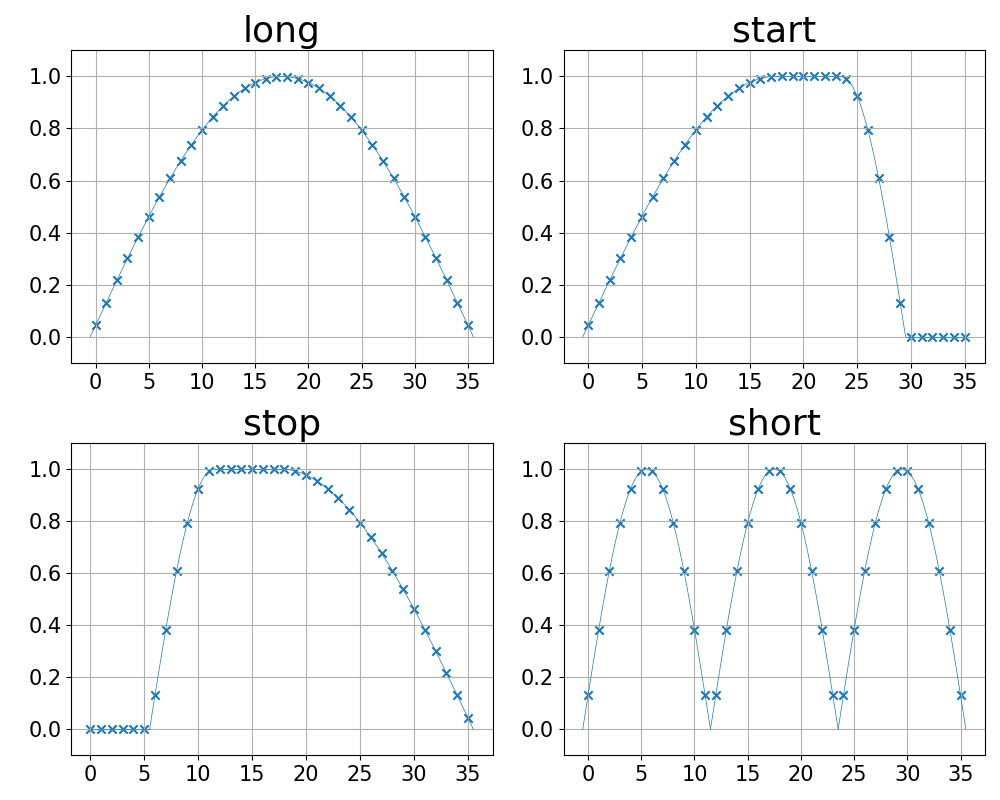
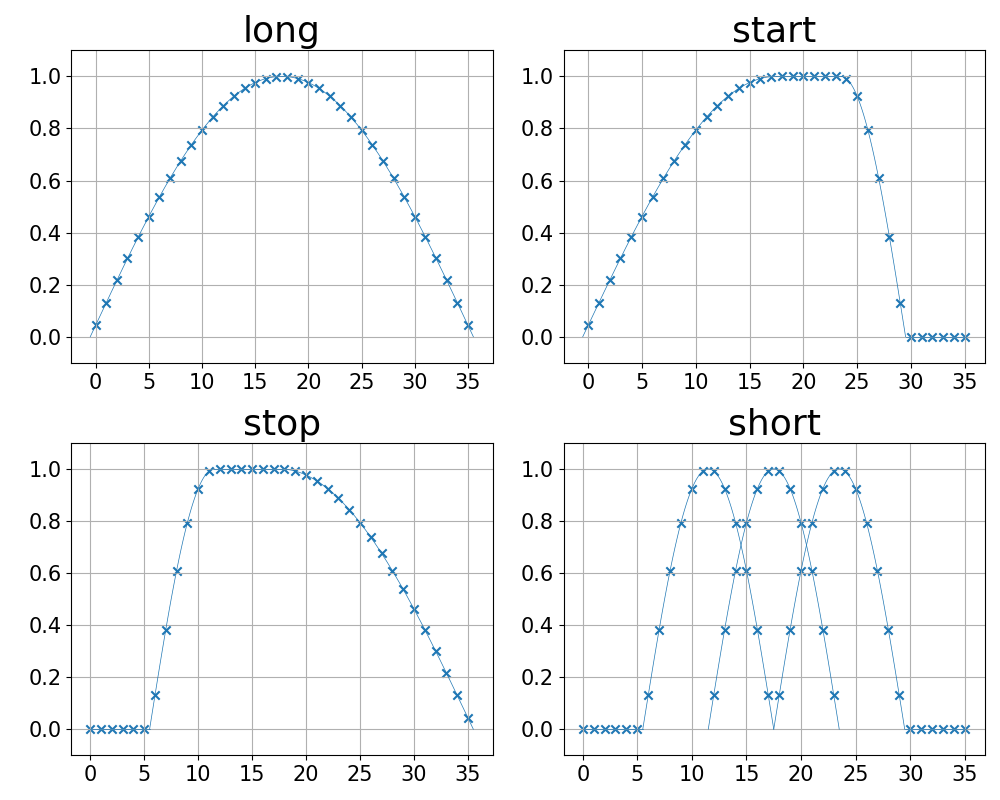
fix short window.

diff --git a/documents/slide/figs/mp3_routines.py b/documents/slide/figs/mp3_routines.py
@@ -597,18 +597,26 @@ def plot_window_functions():
     ax.grid()
     ax = fig.add_subplot(2, 2, 4)
     ax.set_title('short', fontsize=26)
-    x = np.arange(0, 12)
-    ax.scatter(x, np.sin(np.pi / 12 * (x + 1/2)), color=COLOR, marker='x')
-    x = np.arange(-0.5, 11.6, 0.1)
-    ax.plot(x, np.sin(np.pi / 12 * (x + 1/2)), color=COLOR, linewidth=0.5)
+    x = np.arange(0, 6)
+    ax.scatter(x, np.zeros_like(x), color=COLOR, marker='x')
+    x = np.arange(0, 5.6, 0.1)
+    ax.plot(x, np.zeros_like(x), color=COLOR, linewidth=0.5)
+    x = np.arange(6, 18)
+    ax.scatter(x, np.sin(np.pi / 12 * (x - 6 + 1/2)), color=COLOR, marker='x')
+    x = np.arange(5.5, 17.59, 0.1)
+    ax.plot(x, np.sin(np.pi / 12 * (x - 6 + 1/2)), color=COLOR, linewidth=0.5)
     x = np.arange(12, 24)
     ax.scatter(x, np.sin(np.pi / 12 * (x - 12 + 1/2)), color=COLOR, marker='x')
     x = np.arange(11.5, 23.59, 0.1)
     ax.plot(x, np.sin(np.pi / 12 * (x - 12 + 1/2)), color=COLOR, linewidth=0.5)
-    x = np.arange(24, 36)
-    ax.scatter(x, np.sin(np.pi / 12 * (x - 24 + 1/2)), color=COLOR, marker='x')
-    x = np.arange(23.5, 35.59, 0.1)
-    ax.plot(x, np.sin(np.pi / 12 * (x - 24 + 1/2)), color=COLOR, linewidth=0.5)
+    x = np.arange(18, 30)
+    ax.scatter(x, np.sin(np.pi / 12 * (x - 18 + 1/2)), color=COLOR, marker='x')
+    x = np.arange(17.5, 29.59, 0.1)
+    ax.plot(x, np.sin(np.pi / 12 * (x - 18 + 1/2)), color=COLOR, linewidth=0.5)
+    x = np.arange(30, 36)
+    ax.scatter(x, np.zeros_like(x), color=COLOR, marker='x')
+    x = np.arange(29.5, 35.1, 0.1)
+    ax.plot(x, np.zeros_like(x), color=COLOR, linewidth=0.5)
     ax.set_ylim(-0.1, 1.1)
     ax.set_xticks(np.arange(0, 36, 5))
     ax.tick_params(labelsize=15)

diff --git a/documents/slide/mp3slide.tex b/documents/slide/mp3slide.tex
@@ -388,7 +388,7 @@
             種類 & 定義 \\ 
             \midrule
              long & $\displaystyle w[n] = \sin\left[ \frac{\pi}{36} \left( n + \frac{1}{2} \right) \right] \quad (n = 0, ..., 35)$ \\[3ex]
-            short & $\displaystyle w[n] = \sin\left[ \frac{\pi}{12} \left( n - 12k + \frac{1}{2} \right) \right] \ (k = 0,1,2,\ n = 12k, ..., 12k+11)$ \\[3ex]
+            short & $\displaystyle w[n] = \sin\left[ \frac{\pi}{12} \left( n - 6k + \frac{1}{2} \right) \right] \ (k = 1,2,3,\ n = 6k, ..., 6k+11)$ \\[3ex]
             start & $\displaystyle w[n] =
             \left\{ \begin{array}{ll}
                 \sin\left[ \frac{\pi}{36} \left( n + \frac{1}{2} \right) \right] & (n = 0, ..., 17) \\
